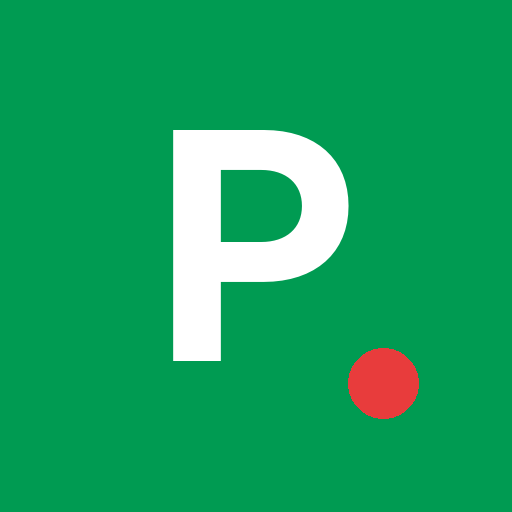
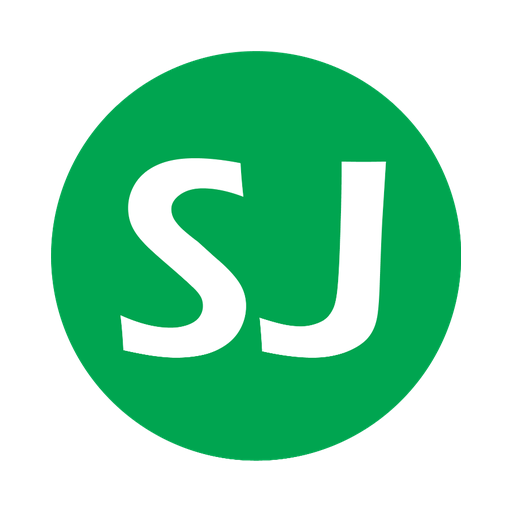
Personalizados: novo visual e ícones de instalação aprovados
Claude-Session: https://claude.ai/code/session_01TTeLb1HLw3zMybE69uwP8t

diff --git a/personalizados/index.html b/personalizados/index.html
@@ -3,14 +3,17 @@
 <head>
 <meta charset="utf-8">
 <meta name="viewport" content="width=device-width,initial-scale=1,viewport-fit=cover">
-<meta name="theme-color" content="#009b52">
+<meta name="theme-color" content="#FFFFFF">
 <meta name="apple-mobile-web-app-capable" content="yes">
 <meta name="mobile-web-app-capable" content="yes">
-<meta name="apple-mobile-web-app-title" content="Personalizados">
+<meta name="apple-mobile-web-app-title" content="SJ Personaliz.">
 <title>Personalizados</title>
 <link rel="manifest" href="manifest.webmanifest">
-<link rel="icon" href="icon-192.png">
-<link rel="apple-touch-icon" href="icon-192.png">
+<link rel="icon" type="image/png" sizes="32x32" href="favicon-32.png">
+<link rel="icon" type="image/png" sizes="16x16" href="favicon-16.png">
+<link rel="apple-touch-icon" sizes="180x180" href="apple-touch-icon.png">
+<meta name="color-scheme" content="light">
+<link rel="stylesheet" href="marca.css">
 <link rel="preconnect" href="https://fonts.googleapis.com">
 <link rel="stylesheet" href="https://fonts.googleapis.com/css2?family=Bricolage+Grotesque:opsz,wght@12..96,600;12..96,700&family=DM+Sans:opsz,wght@9..40,400;9..40,500;9..40,600;9..40,700&display=swap">
 <style>
@@ -38,7 +41,7 @@
   --f-display: "Bricolage Grotesque", "Segoe UI", system-ui, sans-serif;
   --f-body: "DM Sans", "Segoe UI", system-ui, -apple-system, sans-serif;
 }
-@media (prefers-color-scheme: dark) {
+@media (prefers-color-scheme: dark) and (max-width:0px) {
   :root:not([data-theme="light"]) {
     --bg: #0f1512; --surface: #18201c; --surface-2: #212b26; --fg: #e8efeb; --muted: #9db0a5; --line: #2d3a33;
     --brand: #1fb76a; --brand-ink: #04170d; --brand-soft: #173a28; --late: #ff7a72; --late-soft: #3d1d1b;
@@ -222,7 +225,7 @@ tr.late td:first-child { box-shadow: inset 4px 0 0 var(--late); }
 }
 /* ---- v2: kanban, botão +, menus ---- */
 :root { --fab: #e72a30; --fab-ink: #ffffff; }
-@media (prefers-color-scheme: dark) { :root:not([data-theme="light"]) { --fab: #ff5a5f; --fab-ink: #2a0506; } }
+@media (prefers-color-scheme: dark) and (max-width:0px) { :root:not([data-theme="light"]) { --fab: #ff5a5f; --fab-ink: #2a0506; } }
 :root[data-theme="dark"] { --fab: #ff5a5f; --fab-ink: #2a0506; }
 .fab { position: fixed; right: max(18px, calc(env(safe-area-inset-right, 0px) + 18px)); bottom: calc(80px + env(safe-area-inset-bottom, 0px)); z-index: 25; width: 60px; height: 60px; border-radius: 50%; border: 0; background: var(--fab); color: var(--fab-ink); box-shadow: 0 6px 18px rgba(200, 30, 37, .35); display: grid; place-items: center; }
 .fab svg { width: 30px; height: 30px; }
@@ -645,7 +648,7 @@ async function carregarLista() {
 }
 function renderLogin() {
   const p = listaLogin.find((x) => x.id === selPessoa);
-  $("#app").innerHTML = '<div class="login"><div class="login-top"><div class="wrap"><h1>Personalizados</h1><p>Loja São João · vendas, demandas e produção</p></div></div>' +
+  $("#app").innerHTML = '<div class="login"><div class="login-top"><div class="wrap"><h1>Personalizados</h1><p>Vendas, demandas e produção</p></div></div>' +
     '<div class="wrap"><div class="lbl" style="padding-top:16px">Quem está usando?</div><div class="people">' +
     listaLogin.map((x) => '<button type="button" class="person' + (selPessoa === x.id ? " sel" : "") + '" data-p="' + x.id + '"><b>' + esc(x.nome) + "</b><small>" + esc(DESC_PAPEL[x.papel] || "") + "</small></button>").join("") +
     "</div>" + (loginMsg ? '<div class="note" style="background:var(--late-soft);color:var(--late)">' + esc(loginMsg) + "</div>" : "") +
@@ -1427,5 +1430,6 @@ document.addEventListener("click", (e) => {
 
 iniciar();
 </script>
+<script src="marca.js"></script>
 </body>
 </html>

diff --git a/personalizados/marca.css b/personalizados/marca.css
@@ -1,0 +1,22 @@
+/* Identidade São João Personalizados: fundo claro, logo oficial, verde da marca nas ações */
+:root,:root[data-theme="dark"]{--bg:#F5F7F6!important;--surface:#FFFFFF!important;--surface-2:#EDF2EF!important;--fg:#16201B!important;--muted:#5B6B62!important;--line:#D5DFD9!important;
+ --brand:#00A550!important;--brand-ink:#FFFFFF!important;--brand-soft:#DFF3E8!important;--navy:#111184;color-scheme:light!important}
+@media (prefers-color-scheme: dark){:root:not([data-theme="light"]){--bg:#F5F7F6!important;--surface:#FFFFFF!important;--surface-2:#EDF2EF!important;--fg:#16201B!important;--muted:#5B6B62!important;--line:#D5DFD9!important;--brand:#00A550!important;--brand-ink:#FFFFFF!important;--brand-soft:#DFF3E8!important;--late:#c8312b!important;--late-soft:#fbe5e3!important;--warn:#a86a00!important;--warn-soft:#fff1d6!important;--info:#1f63b8!important;--info-soft:#e1ecfa!important;--ok:#00824a!important;--ok-soft:#dcf2e5!important;--gray-soft:#e7eae8!important;color-scheme:light!important}}
+body::before{background:#FFFFFF!important}
+.top{background:#FFFFFF!important;color:var(--fg)!important;border-bottom:1px solid var(--line)}
+.top .wrap{padding-block:8px!important;min-height:72px}
+.top h1{font-size:17px!important;color:var(--navy)}
+.top .who{color:var(--muted)!important;opacity:1!important}
+.marca-logo{height:56px;width:auto;flex:none;display:block}
+.top .iconbtn{background:var(--surface-2)!important;color:var(--fg)!important}
+.login-top{background:#FFFFFF!important;color:var(--fg)!important}
+.login-top .wrap{justify-items:center;text-align:center;padding-block:30px 18px!important}
+.login-top .marca-logo{height:150px}
+.login-top h1{position:absolute;width:1px;height:1px;overflow:hidden;clip:rect(0 0 0 0)}
+.login-top p{color:var(--muted);font-weight:600}
+.fab{background:var(--brand)!important;color:#fff!important;box-shadow:0 6px 18px rgba(0,165,80,.35)!important}
+/* Cabeçalho das telas de trabalho: logo e botões numa linha, título da tela logo abaixo */
+.top .wrap{flex-wrap:wrap;row-gap:2px!important;min-height:0}
+.top .marca-logo{margin-right:auto}
+.top h1{order:9;flex:1 1 100%!important;font-size:18px!important;line-height:1.25;padding-bottom:2px;white-space:nowrap;overflow:hidden;text-overflow:ellipsis}
+.top .who{display:inline!important;margin-left:8px;font-size:12.5px}

diff --git a/personalizados/sw.js b/personalizados/sw.js
@@ -1,6 +1,6 @@
 // App Personalizados: abre mesmo sem internet. Busca sempre a versão nova quando tem internet.
-const CACHE = "pers-app-3";
-const ARQ = ["./", "index.html", "manifest.webmanifest", "icon-192.png", "icon-512.png"];
+const CACHE = "pers-app-4";
+const ARQ = ["./", "index.html", "manifest.webmanifest", "icon-192.png", "icon-512.png", "marca.css", "marca.js", "logo-personalizados.png", "apple-touch-icon.png"];
 self.addEventListener("install", (e) => { self.skipWaiting(); e.waitUntil(caches.open(CACHE).then((c) => c.addAll(ARQ))); });
 self.addEventListener("activate", (e) => { e.waitUntil(caches.keys().then((ks) => Promise.all(ks.filter((k) => k !== CACHE).map((k) => caches.delete(k)))).then(() => self.clients.claim())); });
 self.addEventListener("fetch", (e) => {

diff --git a/personalizados/marca.js b/personalizados/marca.js
@@ -1,0 +1,3 @@
+(function(){function por(){document.querySelectorAll('.top .wrap,.login-top .wrap').forEach(function(w){if(w.querySelector('.marca-logo'))return;var i=new Image();i.src='logo-personalizados.png';i.alt='São João Personalizados';i.className='marca-logo';
+ var back=w.querySelector('#bVoltar');if(back)back.after(i);else w.insertBefore(i,w.firstChild)})}
+ var app=document.getElementById('app');new MutationObserver(por).observe(app,{childList:true});por()})();
